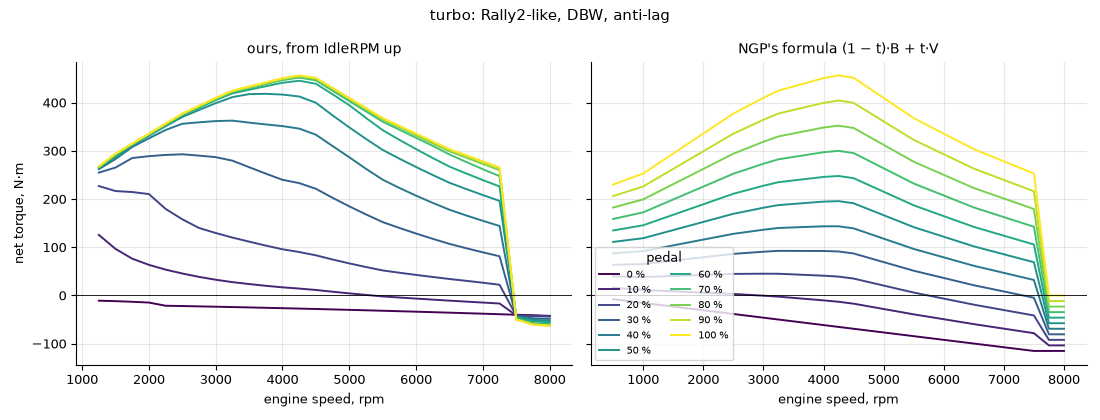
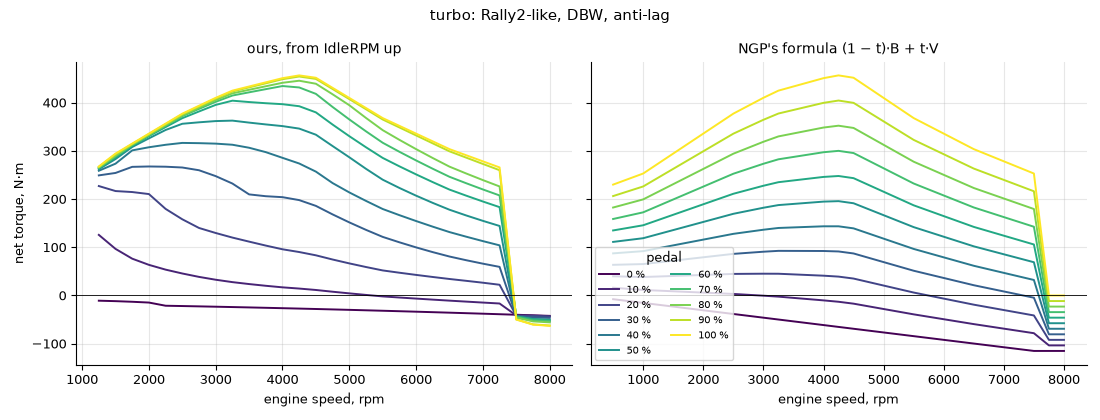
Docs: the drive-by-wire pedal table and the anti-lag's fade, figures regenerated

Changed region(s): [[0.0927, 0.1857, 0.4636, 0.681], [0.4636, 0.7429, 0.5255, 0.7738]]

diff --git a/docs/experimental-physics.md b/docs/experimental-physics.md
@@ -138,11 +138,15 @@ pedal ──► ECU ──► throttle plate ──► intake manifold ──►
 A cable car's plate follows the pedal. A car with a throttle per cylinder (carburettor chokes, slides, individual
 throttle bodies) has a progressive linkage, plate = pedal^1.6.
 
-A drive-by-wire car's plate also follows the pedal, through a throttle motor with a 30 ms lag that needs at least
-40 ms for full travel. Race ECUs work by position. Life Racing (M-Sport's R5 and Rally2 cars), MoTeC, Link, Haltech
-and Marelli all map pedal to throttle position through a table. Link's and Haltech's tables start at one to one.
-MoTeC M1 aims at a share of the airflow, which opens the plate more than the pedal at small openings. No rally team's
-map is public, so ours is the one to one start. Torque-request pedals belong to road cars' Bosch ME7 and to F1.
+A drive-by-wire car's plate follows a pedal table, through a throttle motor with a 30 ms lag that needs at least 40 ms
+for full travel. Race ECUs work by position. Life Racing (M-Sport's R5 and Rally2 cars), MoTeC, Link, Haltech and
+Marelli all map pedal to throttle position through a table. No rally team's map is public, so ours is fitted to what the
+2017-21 World Rally Cars do: in the WRC's stage telemetry (17 rallies) a steady 30 / 40 / 50 / 60 / 70 % throttle gives
+0.31 / 0.49 / 0.67 / 0.81 / 0.92 of the acceleration range between the shut and the open throttle in the same gear. The
+table is the pedal itself up to 20 %, two thirds of its slope from there to 60 % of the plate at 80 % of the pedal, and
+the rest of the plate over the last fifth. With it the i20 Coupe WRC gives 0.41 / 0.55 / 0.71 / 0.82 / 0.90 at 6000 rpm;
+a one to one plate gave 0.49 / 0.71 / 0.86 / 0.96 / 0.99, and matched the real cars only up to 20 %. No other class is
+measured. Torque-request pedals belong to road cars' Bosch ME7 and to F1.
 
 The ECU's idle air adds to the plate's aim and anti-lag's kick overrides it. Blips and shift cuts still come from
 NGP's control unit through the throttle it passes on.
@@ -331,10 +335,13 @@ gates (enginebasics). On a stage the Celica, with the 125 ms, ran more than 10 k
 
 ### Anti-lag
 
-On cars whose class ran it, anti-lag arms above 45 % of `RPMLimit`. With the pedal under 10 %, for at most 3 s, the
-ECU opens the throttle to 20 % of its area, retards the spark 60°, adds 20 % fuel and cuts 30 % of the firings. 60 % of
-the unburnt fuel burns in the exhaust manifold, which keeps the turbine spinning toward a boost aim of 1.2 bar gauge.
-The blow-off valve stays shut.
+On cars whose class ran it, anti-lag arms above 45 % of `RPMLimit`. With the pedal under 10 %, for at most 3 s, the ECU
+opens the throttle to 20 % of its area, retards the spark 60°, adds 20 % fuel and cuts 30 % of the firings. 60 % of the
+unburnt fuel burns in the exhaust manifold, which keeps the turbine spinning toward a boost aim of 1.2 bar gauge. The
+blow-off valve stays shut. When it ends, the retard comes off over 0.1 s: the kick has kept the manifold full, and with
+the spark back at once the engine gave 0.7 of its full torque at 10 % pedal for 0.06 s. The World Rally Cars' telemetry
+shows no such burst: their acceleration stays under the steady pedal map while the pedal comes up. Link's retard table
+runs over throttle and rpm, so a real one blends out too; the 0.1 s is ours.
 
 ### Start mode
 
@@ -483,12 +490,12 @@ The most net power each pedal position gives at any rpm from idle up, as a share
 | --- | --- | --- | --- | --- | --- | --- |
 | 10 % | 0–1 % | 5 % | 10 % | 8 % | 3 % | 9 % |
 | 20 % | 2–8 % | 19 % | 23 % | 21 % | 11 % | 25 % |
-| 30 % | 12–19 % | 44 % | 42 % | 49 % | 22 % | 43 % |
-| 40 % | 23–31 % | 74 % | 61 % | 73 % | 44 % | 57 % |
-| 50 % | 36–42 % | 91 % | 77 % | 88 % | 75 % | 69 % |
-| 60 % | 48–53 % | 97 % | 87 % | 97 % | 88 % | 80 % |
-| 70 % | 61–65 % | 99 % | 93 % | 98 % | 94 % | 89 % |
-| 80 % | 74–77 % | 99 % | 97 % | 99 % | 97 % | 94 % |
+| 30 % | 12–19 % | 44 % | 35 % | 41 % | 22 % | 43 % |
+| 40 % | 23–31 % | 74 % | 48 % | 57 % | 44 % | 57 % |
+| 50 % | 36–42 % | 91 % | 61 % | 73 % | 75 % | 69 % |
+| 60 % | 48–53 % | 97 % | 72 % | 83 % | 88 % | 80 % |
+| 70 % | 61–65 % | 99 % | 81 % | 92 % | 94 % | 89 % |
+| 80 % | 74–77 % | 99 % | 87 % | 97 % | 97 % | 94 % |
 
 And the most net torque, as a share of peak torque:
 
@@ -496,27 +503,30 @@ And the most net torque, as a share of peak torque:
 | --- | --- | --- | --- | --- | --- | --- |
 | 10 % | 0–2 % | 26 % | 40 % | 27 % | 12 % | 49 % |
 | 20 % | 6–10 % | 47 % | 53 % | 49 % | 25 % | 65 % |
-| 30 % | 14–21 % | 63 % | 65 % | 64 % | 38 % | 76 % |
-| 40 % | 26–32 % | 81 % | 75 % | 79 % | 62 % | 84 % |
-| 50 % | 38–43 % | 93 % | 84 % | 91 % | 88 % | 91 % |
-| 60 % | 51–55 % | 97 % | 91 % | 97 % | 93 % | 95 % |
-| 70 % | 63–66 % | 98 % | 95 % | 98 % | 97 % | 98 % |
-| 80 % | 75–77 % | 98 % | 98 % | 99 % | 98 % | 99 % |
+| 30 % | 14–21 % | 63 % | 61 % | 58 % | 38 % | 76 % |
+| 40 % | 26–32 % | 81 % | 68 % | 69 % | 62 % | 84 % |
+| 50 % | 38–43 % | 93 % | 75 % | 79 % | 88 % | 91 % |
+| 60 % | 51–55 % | 97 % | 81 % | 88 % | 93 % | 95 % |
+| 70 % | 63–66 % | 98 % | 87 % | 94 % | 97 % | 98 % |
+| 80 % | 75–77 % | 98 % | 91 % | 97 % | 98 % | 99 % |
 
 BeamNG's values are read from its published plots, and the NGP columns span the four samples. Power compares better:
 at light pedal the torque share mostly says how strong a car's full-throttle curve is near idle, where every light
 pedal line meets it.
 
-On power, the drive-by-wire samples follow BeamNG up to 30 % pedal and give more from 40 % up. Two samples give less at
-light pedal, for reasons in their hardware. The old car's throttles per cylinder sit on a progressive linkage. The
-cable turbo makes its full power on boost, and at light pedal it is an NA engine until the turbo spins. BeamNG scales
-power with the pedal whatever the turbo does.
+On power, the turbo drive-by-wire sample follows BeamNG up to 40 % pedal and gives 3 to 4 points more above; the NA one
+gives 8 to 9 points less from 30 % up. Both carry the pedal table fitted to the World Rally Cars, a restricted turbo
+class. Two samples give less at light pedal, for reasons in their hardware. The old car's throttles per cylinder sit on
+a progressive linkage. The cable turbo makes its full power on boost, and at light pedal it is an NA engine until the
+turbo spins. BeamNG scales power with the pedal whatever the turbo does.
 
-An earlier version mapped the drive-by-wire pedal as pedal^1.3, from HP Academy's drive-by-wire webinar (40 % pedal,
-about 30 % throttle), and gave about half BeamNG's power at 10–20 % pedal. That calibration is a Haltech on a street
-Nissan 350Z, shaped to hold a steady speed on the road. The rest of the chain checks out against measurements: the
-plate flow above, and EPA's steady map of the 2013 Ford 1.6 EcoBoost, which makes 27 % of its 100 kPa torque at
-50 kPa of manifold pressure where ours makes 28 % at 47 kPa.
+Two earlier versions of the drive-by-wire pedal did not hold. The first mapped it as pedal^1.3, from HP Academy's
+drive-by-wire webinar (40 % pedal, about 30 % throttle), and gave about half BeamNG's power at 10–20 % pedal. That
+calibration is a Haltech on a street Nissan 350Z, shaped to hold a steady speed on the road. The second put the plate at
+the pedal: right at 10–20 %, and 0.12 to 0.35 of the range over the real cars from 30 to 60 %, because a butterfly ahead
+of a boosted manifold stops limiting the air near half open. The rest of the chain checks out against measurements: the
+plate flow above, and EPA's steady map of the 2013 Ford 1.6 EcoBoost, which makes 27 % of its 100 kPa torque at 50 kPa
+of manifold pressure where ours makes 28 % at 47 kPa.
 
 BeamNG's curve isn't measured data either. Niels Heusinkveld, whose research the post credits, read the part-throttle
 curves of 12 sims, not cars, and proposed a shape from them. Forum readings of BeamNG's engine code have it apply
